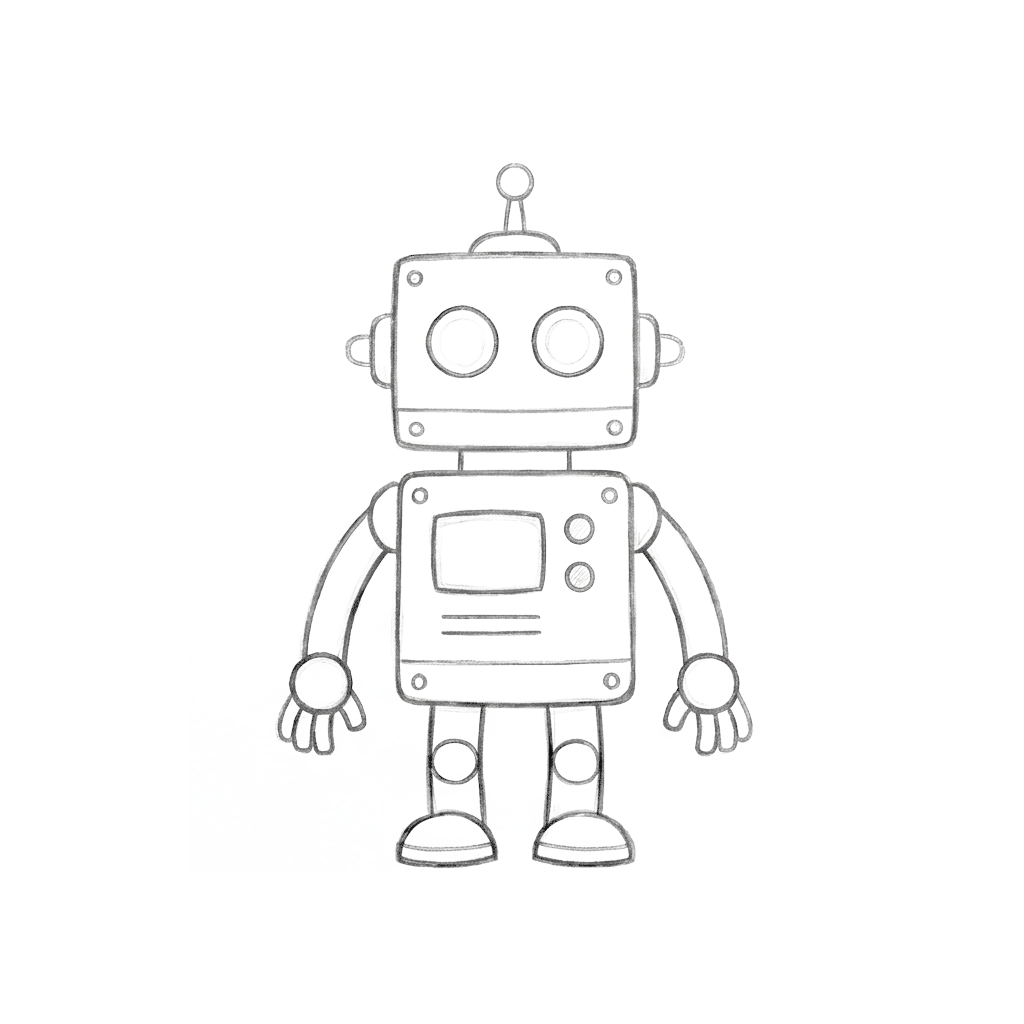
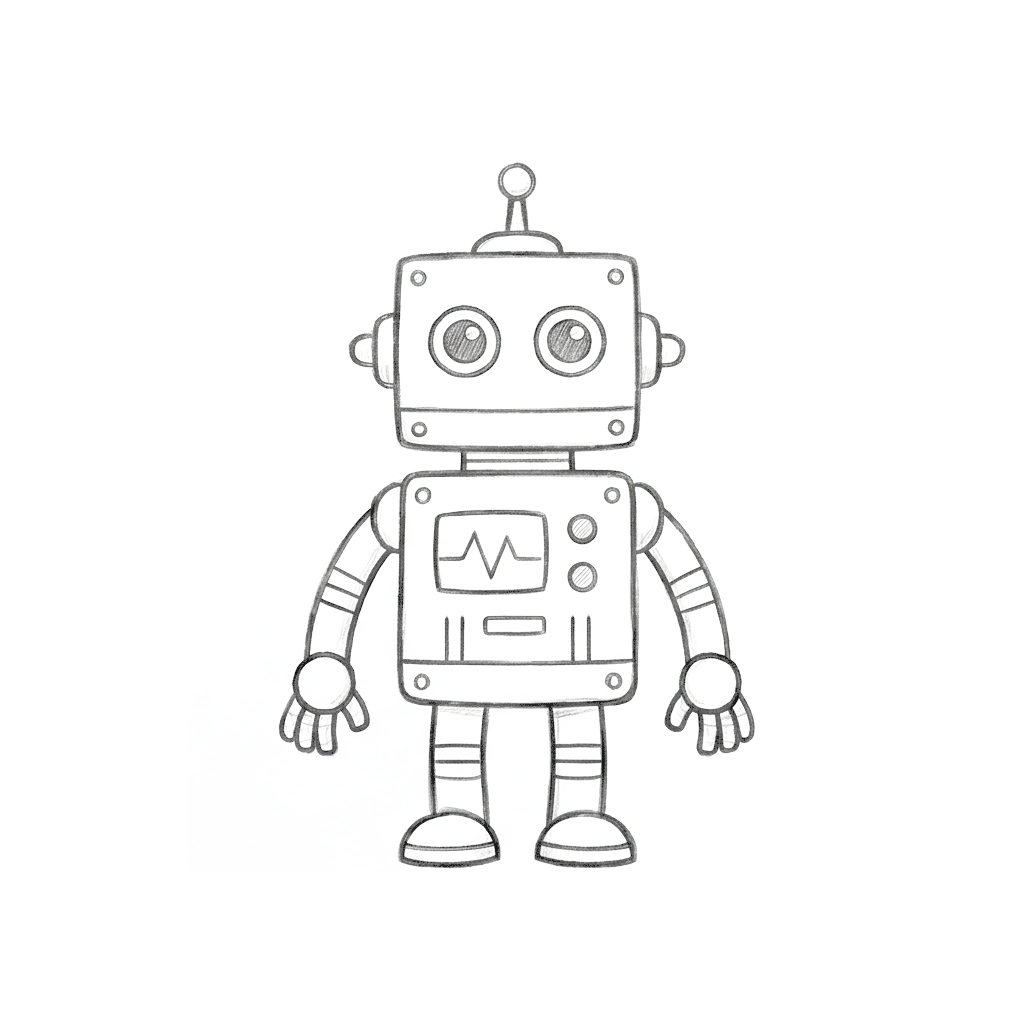
fix: the drawing steps described pictures that are not on the screen
Auditing every folder against its step images found this is not a few wrong
lines. Fourteen of twenty-four drawings had no descriptions at all. Four had
more descriptions than pictures: house 15 for 8, landscape 16 for 6, princess 29
for 6, cat 8 for 9. Those extras are left over from earlier, longer versions of
the same drawings, so past the point where they diverge, every description
described a different picture than the one being shown. That is the "two
windows" on a house with one window, and the caterpillar step describing
something drawn several steps earlier.

Only six lists even matched on count, and matching on count is not the same as
being right — caterpillar matches and is still wrong.

A description that contradicts its picture is worse than none, because a
six-year-old believes the words over their own eyes. So descriptions now live in
src/lib/drawingSteps.js keyed per language, a drawing appears there only after
its steps have been checked against the images one by one, and everything else
renders pictures alone as it did before. The drifted lists are deleted rather
than carried forward.

Robot is done. Its old step 5 is removed as you asked, and the pictures say why:
the ear knobs and knee circles drawn in step 4 disappear in step 5 and come back
in step 6, so that frame came from a different version of the robot. Renumbered
to six steps, with English and Turkish written from the images.
[…]

Changed region(s): [[0.25, 0.25, 0.75, 0.8438], [0.4375, 0.1562, 0.5625, 0.25]]

diff --git a/src/screens/DrawingsScreen.jsx b/src/screens/DrawingsScreen.jsx
@@ -1,3 +1,4 @@
+import { stepsFor } from '../lib/drawingSteps'
 import { useEffect, useLayoutEffect, useRef, useState } from 'react'
 import { t, formatDay, localeFor, childLang } from '../lib/i18n'
 import { useNavigate } from 'react-router-dom'
@@ -44,156 +45,7 @@ function bandFor(age) {
 }
 const AGE_GROUP = { young: '6-8', mid: '9-11', mature: '12-15' }
 
-// Per-step hints, from TARGETS[].steps[].tip in the prototype.
-const STEP_TIPS = {
-  cat: [
-    'Draw a big oval for the head.',
-    'Add an egg shape below for the body.',
-    'Two pointy ears on top.',
-    'Draw two big round eyes.',
-    'Colour the eyes in and add pupils.',
-    'A little nose, a smile and paw lines.',
-    'Long whiskers and a curvy tail.',
-    'Add stripes and fur — your cat is done!',
-  ],
-  dog: [
-    'Draw a big round head.',
-    'Add an egg shape below for the body.',
-    'Two floppy ears on the sides.',
-    'Round eyes, a little nose and a smile.',
-    'Colour the eyes in dark.',
-    'Draw the front legs and paws.',
-    'Add a happy wagging tail!',
-    'Add the spots — all done!',
-  ],
-  bee: [
-    'Draw a circle for the head.',
-    'Add a big oval body behind it.',
-    'Two curly antennae with little balls on top.',
-    'Draw two big round eyes.',
-    'Add a happy smile.',
-    'Two big wings and tiny legs.',
-    'Add the stripes and a stinger — buzz, done!',
-  ],
-  axolotl: [
-    'Draw a big round head.',
-    'Add a chubby body and little arms.',
-    'Two big shiny eyes.',
-    'Add a happy open smile.',
-    'Feathery gills on both sides and a long tail.',
-    'Go over your lines and add shading — done!',
-  ],
-  landscape: [
-    'Draw a curved line for the hill.',
-    'Add three pine trees on the left.',
-    'Draw a winding path over the hill.',
-    'Add a little house on the right.',
-    'Draw clouds and a sun in the sky.',
-    'Add shading, a river and smoke — all done!',
-  ],
-  'anime-face': [
-    'Draw a circle and a center line for the face.',
-    'Add the jaw and chin below the circle.',
-    'Draw the ears and neck.',
-    'Add the eyebrows and eyes.',
-    'Draw the pupils and eyelids.',
-    'Add the nose and a smiling mouth.',
-    'Draw the hair shape around the head.',
-    'Add hair strands and shading.',
-    'Finish the shading and details — done!',
-  ],
-  caterpillar: [
-    'Draw a big circle for the head.',
-    'Add a round body part behind it.',
-    'Keep adding circles to make the body longer.',
-    'Two big eyes and a happy smile.',
-    'Add two curly antennae on top.',
-    'Little legs under each body part.',
-    'Add spots and stripes on the body.',
-    'Draw a leaf under your caterpillar — done!',
-  ],
-  house: [
-    'Draw a big square for the walls.',
-    'Put a triangle roof on top.',
-    'Add a door in the middle.',
-    'Two windows, one on each side.',
-    'Draw the window panes and a doorknob.',
-    'Add a chimney and some smoke.',
-    'Draw a path and a little fence.',
-    'Add bricks, grass and a sun — all done!',
-  ],
-  // Seven steps, not eight: the original step 5 went BACKWARDS (the antenna and
-  // ears it had just added disappeared again), so it was dropped and the rest
-  // renumbered. Step 4 → 5 now only ever adds.
-  robot: [
-    'Draw a square for the head.',
-    'Add a big square body underneath.',
-    'Bendy arms, round hands, legs and feet.',
-    'An antenna, two big eyes and side ears.',
-    'Add a screen and buttons on the tummy.',
-    'Bolts on the corners and little fingers.',
-    'Add shading and details — beep boop, done!',
-  ],
-  owl: [
-    'Draw a circle for the head and an oval below it for the body.',
-    'Add two dot eyes and round out the body into an owl shape.',
-    'Draw a heart-shaped face mask and a little triangle beak.',
-    'Add two feet with tiny claws at the bottom.',
-    'Draw the pupils in the eyes and a line down the wing.',
-    'Add eyebrow feathers and a few lines on the wing.',
-    'Fill in feather texture all over the body.',
-    'Add pointy ear tufts on top and finish the feathers — done!',
-  ],
-  tiger: [
-    'Draw an oval for the body, a circle for the head, and simple lines for the legs and tail.',
-    'Shape the head, back, and legs into a walking tiger, and curl the tail.',
-    'Add the eyes, nose, mouth, and paws with little claws.',
-    'Draw the fur lines flowing along the back and add whiskers.',
-    'Fill in the stripes all over the body, legs, and tail.',
-    'Darken the stripes and add shading to finish — done!',
-  ],
-  master: [
-    'Draw a circle for the head and an ear guide line on the side.',
-    'Add the eyebrows and eyes on the face.',
-    'Draw the neck and a cape falling over the shoulders.',
-    'Add the arms, a sash at the waist, and a sword in one hand.',
-    'Draw the long flowing hair and sharpen the face — done!',
-  ],
-  princess: [
-    'Draw an oval for the head with a center guide line.',
-    'Add the big eyes, nose, and mouth on the face.',
-    'Draw the long wavy hair flowing around the head.',
-    'Add the neck and a dress with a V-neck collar.',
-    'Draw the arms and hands clasped together in front.',
-    'Add the dress folds and a ribbon hem at the bottom — done!',
-  ],
-  'tough-girl': [
-    'Draw the head and ears, with two circles above for the hair buns.',
-    'Add angry eyebrows, sharp eyes, and a frown.',
-    'Draw the shirt and skirt shapes, with arms out to the sides.',
-    'Add the two space buns with wispy hair strands.',
-    'Draw the legs, leggings, and boots, with hands on the hips.',
-    'Add the laces and details on the boots and clothes — done!',
-  ],
-  'worried-boy': [
-    'Draw an oval for the head with a center guide line and a jaw shape.',
-    'Add the neck and a leaning body shape.',
-    'Draw the messy hair on top of the head.',
-    'Add worried eyebrows, wide eyes, and a scared open mouth.',
-    'Draw the arms — one pressed against a wall, one on the hip.',
-    'Add the legs and feet in a leaning stance.',
-    'Add clothing wrinkles and details on the arms and wall — done!',
-  ],
-  'girl-with-cat': [
-    'Draw a circle for the head with a center guide cross.',
-    'Add a bow on top of the head.',
-    'Draw the hair with bangs framing the face.',
-    'Add the big eyes, nose, and mouth.',
-    'Draw the shirt, arms, and long pigtails flowing down.',
-    'Draw the legs sitting cross-legged and a little cat beside her.',
-    'Add details on the hair, clothes, and cat — done!',
-  ],
-}
+
 
 const CATEGORIES = ['All', 'Animals', 'Characters', 'Objects', 'Nature']
 const DIFFICULTIES = ['All', 'Easy', 'Medium', 'Hard']
@@ -534,7 +386,8 @@ function ConfirmModal({ sk, title, body, cancelLabel, confirmLabel, confirmDange
 function Steps({ sk, target, ageGroup, step, setStep, onFinish, onBack }) {
   const lang = childLang(JSON.parse(localStorage.getItem('child') || 'null'))
   const total = target.step_count
-  const tips = STEP_TIPS[target.id] || []
+  // Only drawings whose steps have been checked against their pictures get words.
+  const tips = stepsFor(target.id, lang) || []
   const isLast = step >= total - 1
   const [confirmExit, setConfirmExit] = useState(false)
 

diff --git a/src/lib/drawingSteps.js b/src/lib/drawingSteps.js
@@ -1,0 +1,58 @@
+// What the child is told to draw at each step, per language.
+//
+// These used to be one English array per drawing, inside DrawingsScreen, and they had drifted
+// badly away from the pictures they describe. An audit of every folder against its step images
+// found:
+//
+//   * 14 of 24 drawings had no descriptions at all — the child saw pictures and no words
+//   * house had 15 descriptions for 8 pictures, landscape 16 for 6, princess 29 for 6, cat 8
+//     for 9. The extras are from earlier, longer versions of those drawings, so from some
+//     point onward every description described a different picture than the one on screen.
+//     That is why house step 4 said "two windows" when the picture has one, and why
+//     caterpillar's step 5 described something drawn several steps earlier.
+//
+// A description that does not match its picture is worse than none: a six-year-old trusts the
+// words over what they see. So a drawing appears here only once its steps have been checked
+// against the images one by one, and DRAWINGS_AUDITED records which those are — anything else
+// shows pictures alone, as it did before, rather than confident nonsense.
+//
+// Adding a language: another field beside en/tr, same as src/lib/i18n.js.
+
+export const DRAWING_STEPS = {
+  // Audited against drawings/robot/*.webp. The old step 5 was removed: the ear knobs and knee
+  // circles drawn in step 4 vanished in it and came back in step 6, so it belonged to a
+  // different version of this robot. Remaining steps renumbered 1-6.
+  robot: {
+    en: [
+      'Draw a rectangle for the head.',
+      'Add a square below it for the body.',
+      'Add a short neck, curved arms with round hands, and two legs with feet.',
+      'Put an antenna on top, two big round eyes, and little ears on each side.',
+      'Draw a screen and two buttons on the chest, then add fingers and bolts.',
+      'Colour the eyes in, draw a line across the screen, and add joint lines to the arms and legs.',
+    ],
+    tr: [
+      'Kafa için bir dikdörtgen çiz.',
+      'Altına gövde için bir kare ekle.',
+      'Kısa bir boyun, yuvarlak elli kavisli kollar ve ayaklı iki bacak ekle.',
+      'Tepesine anten, iki büyük yuvarlak göz ve iki yanına küçük kulak koy.',
+      'Göğsüne bir ekran ve iki düğme çiz, sonra parmakları ve vidaları ekle.',
+      'Gözleri boya, ekranın üstüne bir çizgi çek, kollara ve bacaklara eklem çizgileri ekle.',
+    ],
+  },
+}
+
+// Only these are known to match their pictures. The rest are waiting on the same
+// image-by-image pass; until then they render without text.
+export const DRAWINGS_AUDITED = new Set(Object.keys(DRAWING_STEPS))
+
+export function stepsFor(drawingKey, lang) {
+  const entry = DRAWING_STEPS[drawingKey]
+  if (!entry) return null
+  return entry[lang] ?? entry.en ?? null
+}
+
+export function stepTip(drawingKey, stepIndex, lang) {
+  const steps = stepsFor(drawingKey, lang)
+  return steps?.[stepIndex] ?? null
+}
